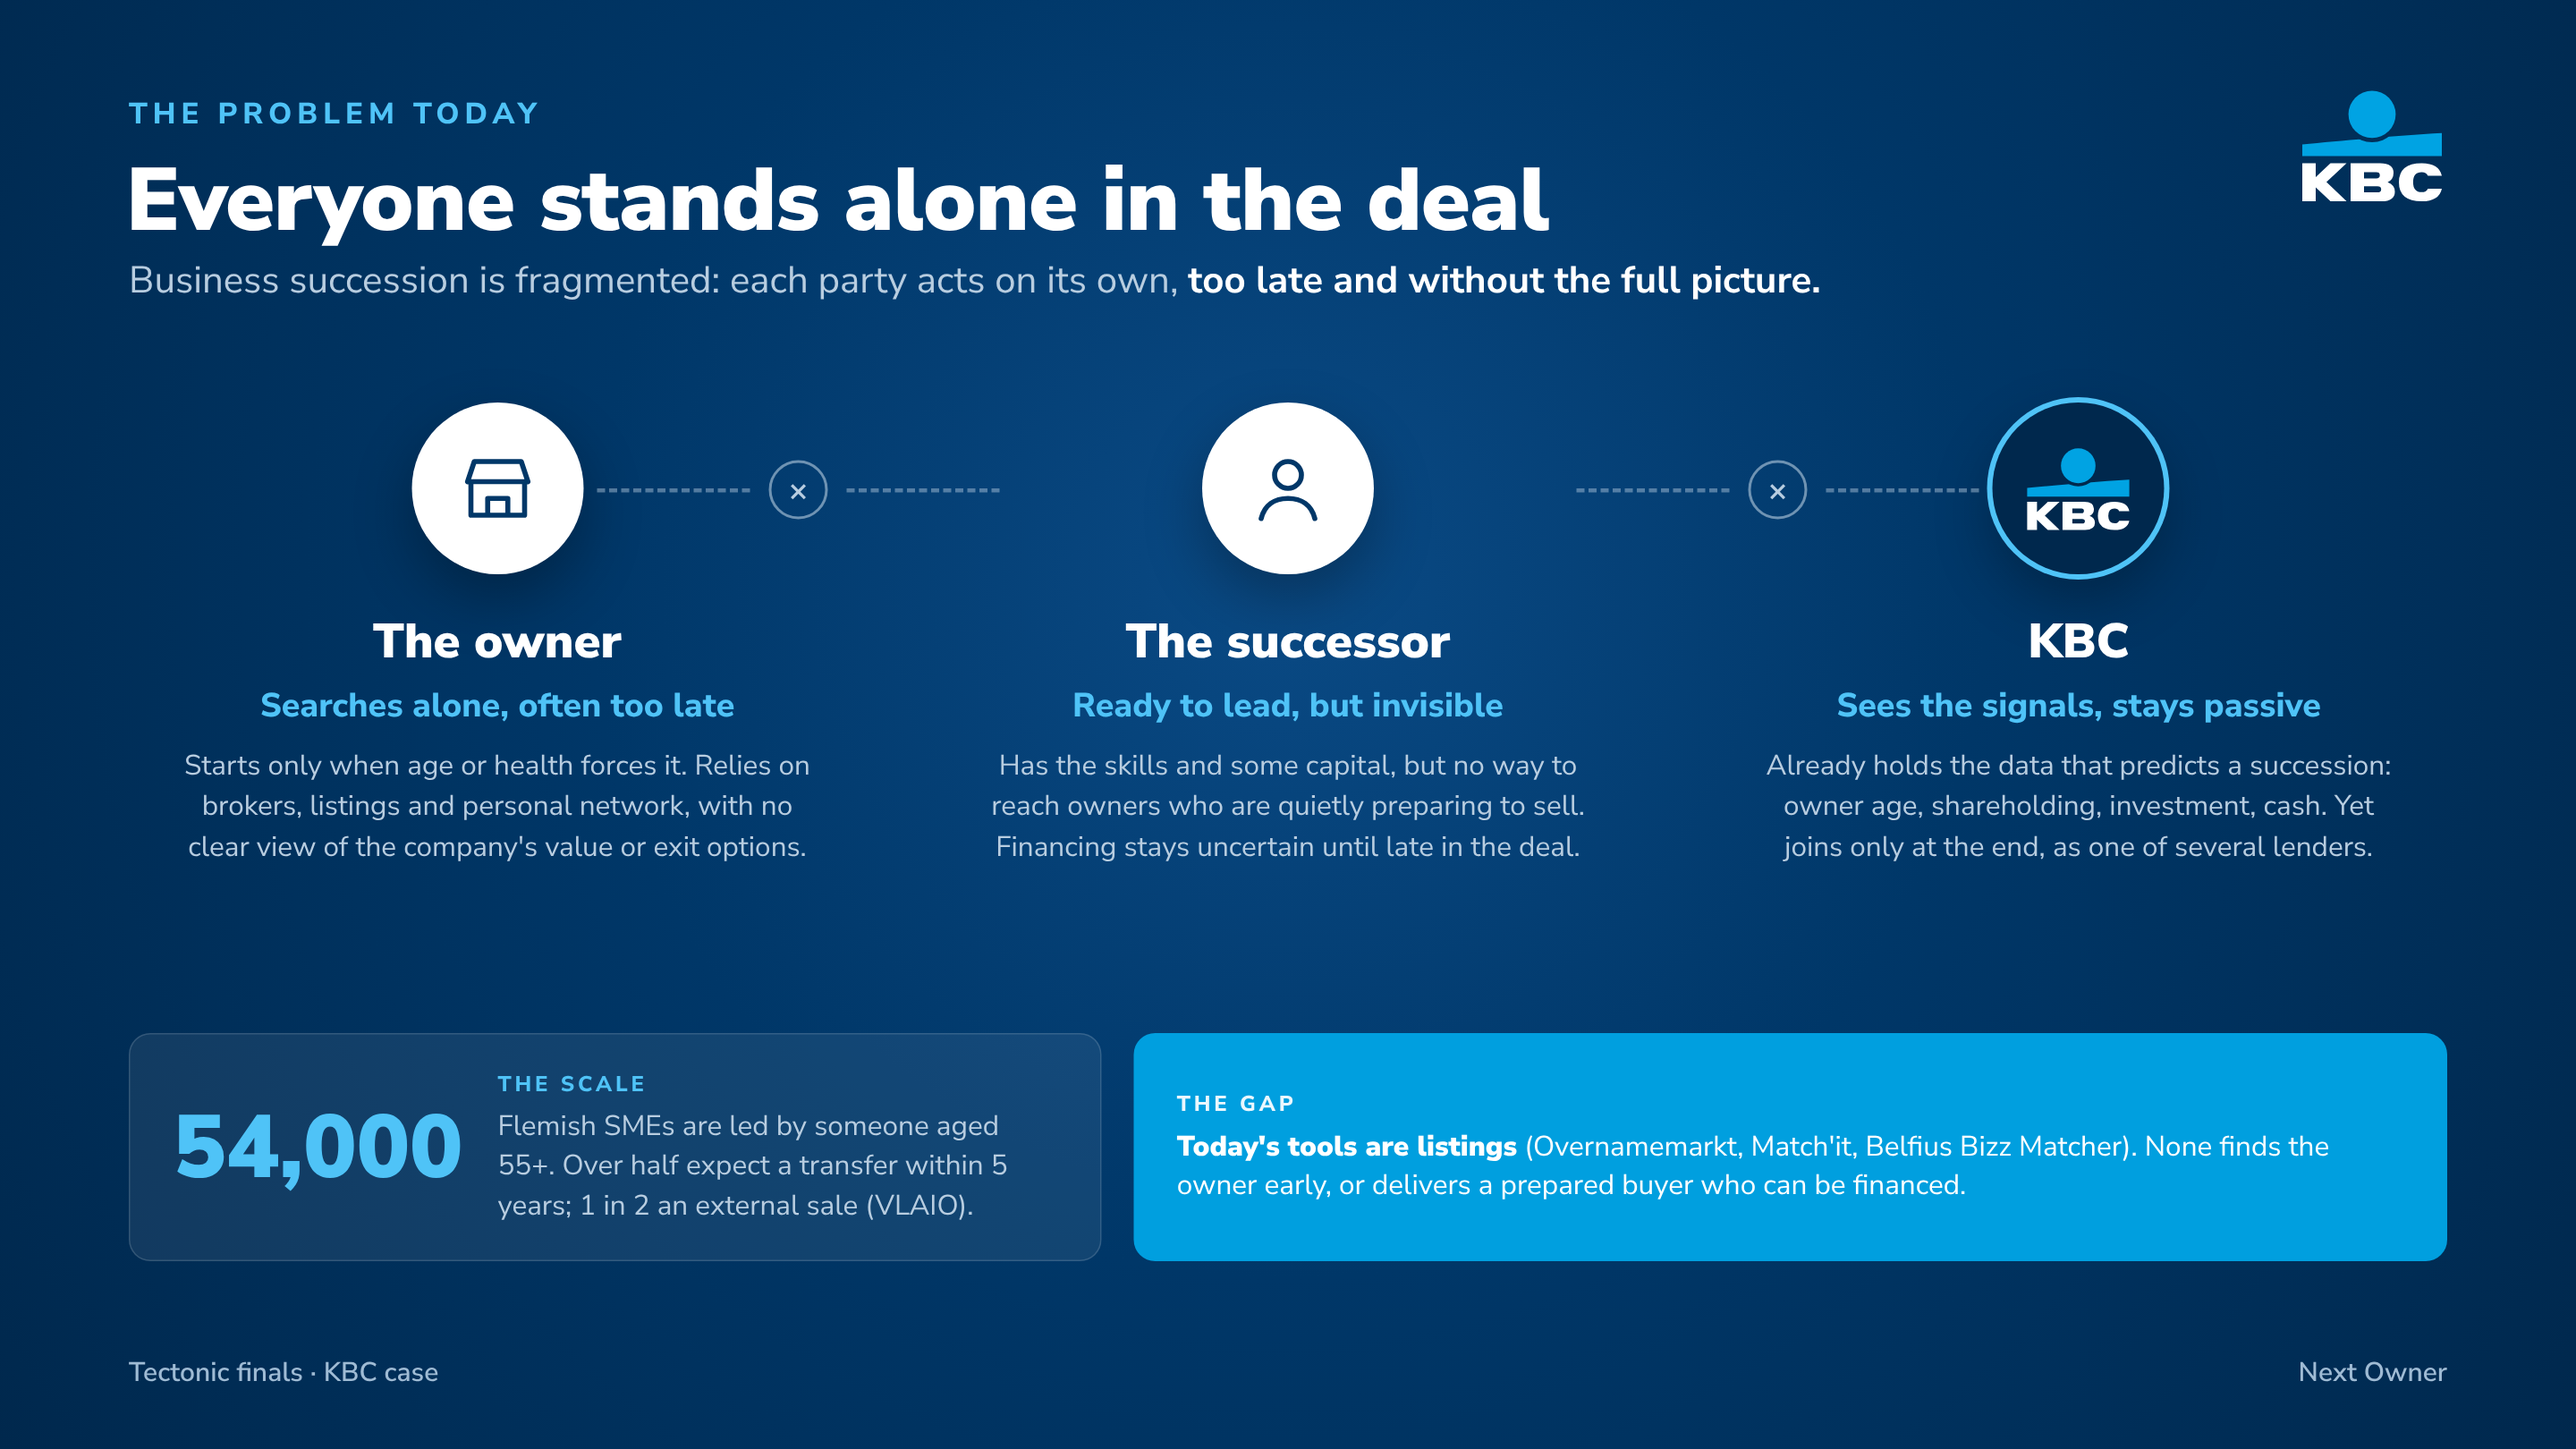
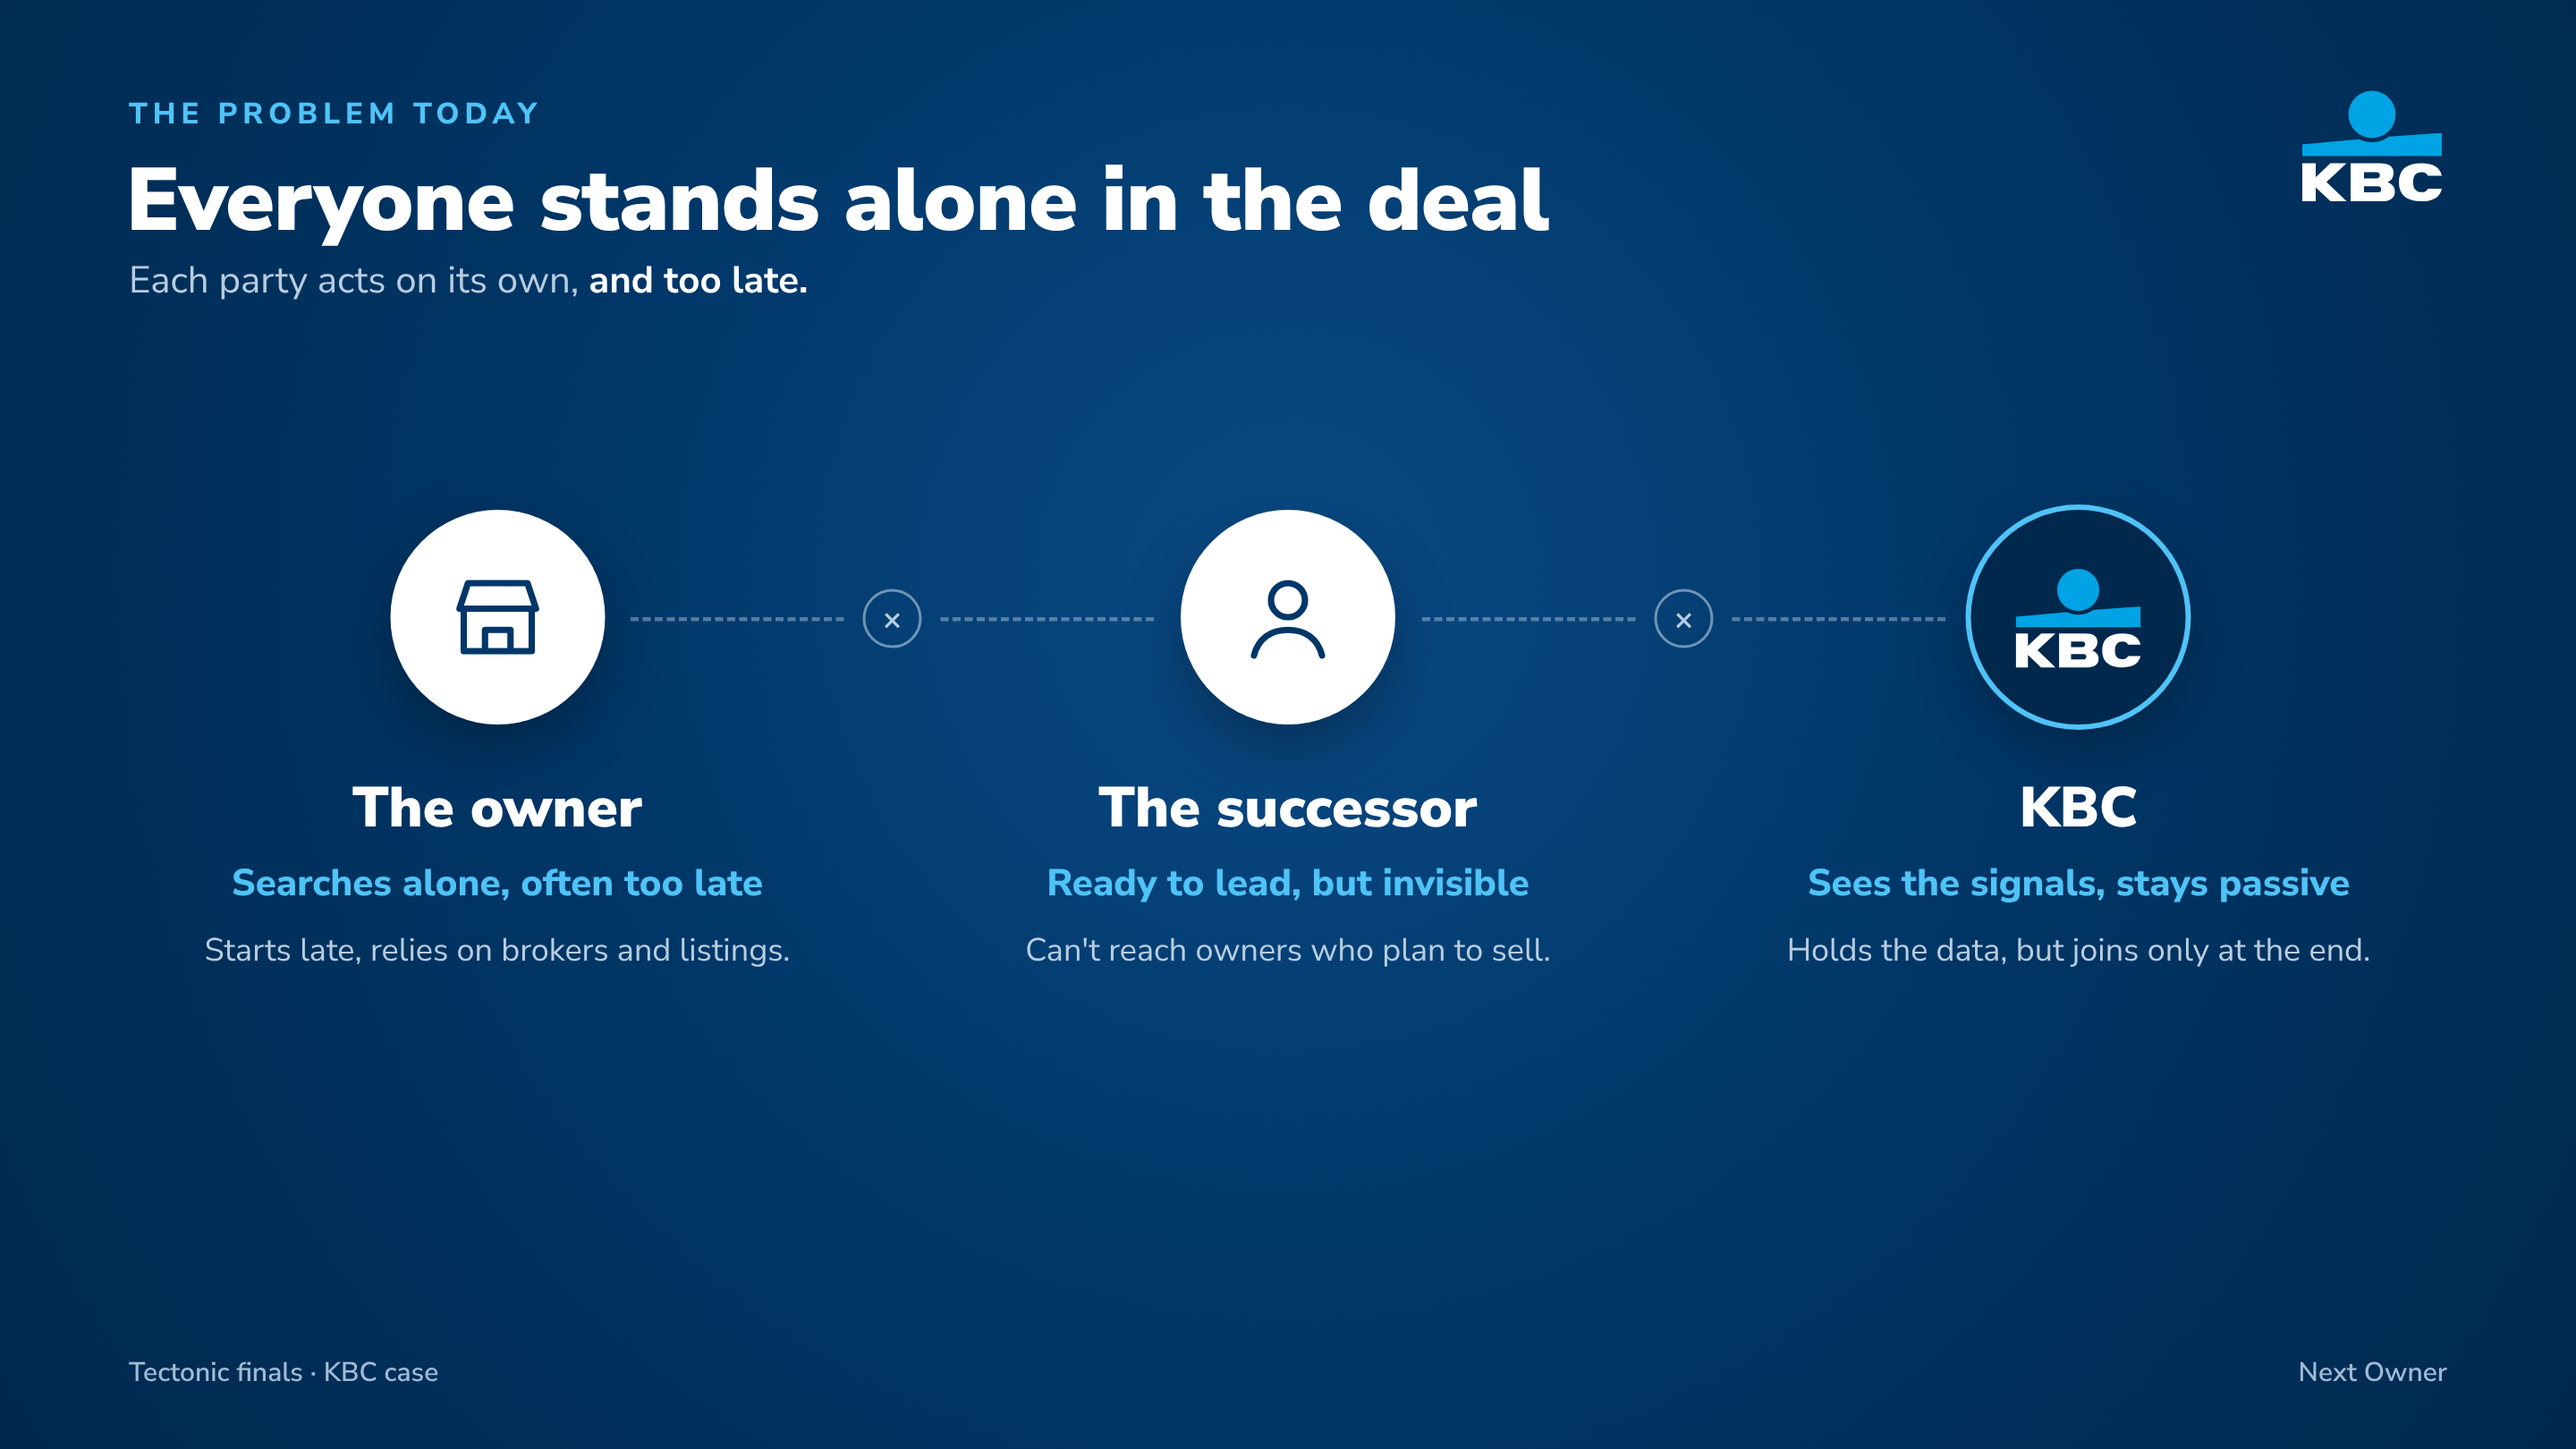
Simplify problem slide; add navy title slide with shop illustration
Claude-Session: https://claude.ai/code/session_019pKDhs8WJ9ksLK9yFgr7c1

diff --git a/slides/problem_alone.html b/slides/problem_alone.html
@@ -14,41 +14,31 @@ h1{position:absolute;left:94px;top:104px;font-size:66px;font-weight:900;letter-s
 .sub b{color:#fff}
 
 /* Three actors, not connected */
-.actors{position:absolute;left:96px;right:96px;top:300px;display:grid;grid-template-columns:repeat(3,1fr);gap:40px}
+.actors{position:absolute;left:96px;right:96px;top:380px;display:grid;grid-template-columns:repeat(3,1fr);gap:40px}
 .actor{text-align:center;padding:0 20px}
-.ic{width:128px;height:128px;border-radius:50%;margin:0 auto 26px;display:grid;place-items:center;
+.ic{width:160px;height:160px;border-radius:50%;margin:0 auto 34px;display:grid;place-items:center;
   background:#fff;color:var(--navy);box-shadow:0 18px 44px rgba(0,0,0,.3)}
-.ic svg{width:60px;height:60px;stroke:currentColor;fill:none;stroke-width:1.5;stroke-linecap:round;stroke-linejoin:round}
-.ic img{width:82px}
+.ic svg{width:76px;height:76px;stroke:currentColor;fill:none;stroke-width:1.5;stroke-linecap:round;stroke-linejoin:round}
+.ic img{width:100px}
 .actor.kbc .ic{background:var(--navy-2);box-shadow:0 0 0 4px var(--blue-2),0 18px 44px rgba(0,0,0,.3)}
-.actor b{display:block;font-size:36px;font-weight:900}
-.actor .tag{display:block;font-size:25px;font-weight:800;color:var(--blue-2);margin:6px 0 12px}
-.actor p{font-size:21px;line-height:1.45;color:var(--muted);max-width:470px;margin:0 auto}
+.actor b{display:block;font-size:42px;font-weight:900}
+.actor .tag{display:block;font-size:28px;font-weight:800;color:var(--blue-2);margin:8px 0 14px}
+.actor p{font-size:24px;line-height:1.45;color:var(--muted);max-width:560px;margin:0 auto}
 
 /* Broken links between the actors */
-.gap{position:absolute;top:364px;width:300px;height:2px;display:flex;align-items:center;justify-content:center}
+.gap{position:absolute;top:460px;width:390px;height:2px;display:flex;align-items:center;justify-content:center}
 .gap::before,.gap::after{content:"";flex:1;border-top:3px dashed rgba(184,205,224,.45)}
 .gap span{width:44px;height:44px;margin:0 14px;border-radius:50%;border:2px solid rgba(184,205,224,.6);color:var(--muted);
   display:grid;place-items:center;font-size:24px;font-weight:700;line-height:1}
-.g1{left:445px}.g2{left:1175px}
+.g1{left:470px}.g2{left:1060px}
 
-/* Evidence */
-.bottom{position:absolute;left:96px;right:96px;top:770px;display:grid;grid-template-columns:1fr 1.35fr;gap:24px}
-.box{border-radius:16px;padding:26px 32px;display:flex;gap:26px;align-items:center}
-.box small{display:block;font-size:16px;font-weight:800;letter-spacing:.16em;margin-bottom:6px}
-.box p{font-size:21px;line-height:1.4}
-.scale{background:rgba(255,255,255,.07);border:1px solid rgba(255,255,255,.14)}
-.scale .num{font-size:66px;font-weight:900;color:var(--blue-2);line-height:1;flex:none}
-.scale small{color:var(--blue-2)}.scale p{color:var(--muted)}
-.gapbox{background:var(--blue)}
-.gapbox small{color:#eaf7fe}.gapbox p{color:#fff}.gapbox p b{font-weight:900}
 
 .foot{position:absolute;left:96px;right:96px;bottom:44px;display:flex;justify-content:space-between;font-size:20px;color:#9fbbd4;font-weight:600}
 </style></head><body>
 
 <div class="kicker">THE PROBLEM TODAY</div>
 <h1>Everyone stands alone in the deal</h1>
-<div class="sub">Business succession is fragmented: each party acts on its own, <b>too late and without the full picture.</b></div>
+<div class="sub">Each party acts on its own, <b>and too late.</b></div>
 <img class="logo" src="kbc-logo-white.svg" alt="KBC">
 
 <div class="actors">
@@ -56,33 +46,24 @@ h1{position:absolute;left:94px;top:104px;font-size:66px;font-weight:900;letter-s
     <div class="ic"><svg viewBox="0 0 24 24"><path d="M3 10l2-6h14l2 6M4 10v10h16V10M3 10h18M9 20v-5h6v5"/></svg></div>
     <b>The owner</b>
     <span class="tag">Searches alone, often too late</span>
-    <p>Starts only when age or health forces it. Relies on brokers, listings and personal network, with no clear view of the company's value or exit options.</p>
+    <p>Starts late, relies on brokers and listings.</p>
   </div>
   <div class="actor">
     <div class="ic"><svg viewBox="0 0 24 24"><circle cx="12" cy="8" r="4"/><path d="M4 21c1-4 4-6 8-6s7 2 8 6"/></svg></div>
     <b>The successor</b>
     <span class="tag">Ready to lead, but invisible</span>
-    <p>Has the skills and some capital, but no way to reach owners who are quietly preparing to sell. Financing stays uncertain until late in the deal.</p>
+    <p>Can't reach owners who plan to sell.</p>
   </div>
   <div class="actor kbc">
     <div class="ic"><img src="kbc-logo-white.svg" alt="KBC"></div>
     <b>KBC</b>
     <span class="tag">Sees the signals, stays passive</span>
-    <p>Already holds the data that predicts a succession: owner age, shareholding, investment, cash. Yet joins only at the end, as one of several lenders.</p>
+    <p>Holds the data, but joins only at the end.</p>
   </div>
 </div>
 <div class="gap g1"><span>×</span></div>
 <div class="gap g2"><span>×</span></div>
 
-<div class="bottom">
-  <div class="box scale">
-    <div class="num">54,000</div>
-    <div><small>THE SCALE</small><p>Flemish SMEs are led by someone aged 55+. Over half expect a transfer within 5 years; 1 in 2 an external sale (VLAIO).</p></div>
-  </div>
-  <div class="box gapbox">
-    <div><small>THE GAP</small><p><b>Today's tools are listings</b> (Overnamemarkt, Match'it, Belfius Bizz Matcher). None finds the owner early, or delivers a prepared buyer who can be financed.</p></div>
-  </div>
-</div>
 
 <div class="foot"><span>Tectonic finals · KBC case</span><span>Next Owner</span></div>
 </body></html>

diff --git a/slides/title.html b/slides/title.html
@@ -1,0 +1,76 @@
+<!doctype html><html><head><meta charset="utf-8">
+<link href="https://fonts.googleapis.com/css2?family=Nunito+Sans:wght@400;600;700;800;900&display=swap" rel="stylesheet">
+<style>
+/* Title slide, 1920x1080, navy section style. */
+*{box-sizing:border-box;margin:0;padding:0}
+:root{--navy:#003768;--navy-2:#00284d;--blue:#009fdf;--blue-2:#4fc3f7;--muted:#b8cde0}
+body{width:1920px;height:1080px;color:#fff;font-family:"Nunito Sans",Inter,"DejaVu Sans",sans-serif;position:relative;overflow:hidden;
+  background:radial-gradient(circle at 74% 52%,#0b4d8a 0%,var(--navy) 40%,var(--navy-2) 100%)}
+
+.logo{position:absolute;left:120px;top:84px;width:120px}
+.text{position:absolute;left:120px;top:50%;transform:translateY(-46%);width:900px}
+.kicker{font-size:26px;font-weight:800;letter-spacing:.18em;color:var(--blue-2)}
+h1{font-size:150px;font-weight:900;line-height:.98;letter-spacing:-.02em;margin-top:16px}
+h1 span{color:var(--blue-2)}
+.rule{width:150px;height:10px;border-radius:5px;background:var(--blue);margin:40px 0 34px}
+.claim{font-size:46px;font-weight:800;line-height:1.2}
+.sub{font-size:30px;color:var(--muted);margin-top:16px;line-height:1.35}
+.sub b{color:#fff}
+.foot{position:absolute;left:120px;right:120px;bottom:64px;display:flex;justify-content:space-between;font-size:22px;color:#9fbbd4;font-weight:600}
+
+svg.shop{position:absolute;right:120px;top:170px;width:680px;height:740px}
+</style></head><body>
+
+<img class="logo" src="kbc-logo-white.svg" alt="KBC">
+
+<div class="text">
+  <div class="kicker">KBC CASE · ENTREPRENEURSHIP</div>
+  <h1>KBC Next<br><span>Owner</span></h1>
+  <div class="rule"></div>
+  <div class="claim">Every healthy company<br>deserves a next owner.</div>
+  <div class="sub">KBC finds, prepares and finances them,<br><b>before the owner asks.</b></div>
+</div>
+
+<!-- A healthy shop with the shutter half down and a sign: who takes over? -->
+<svg class="shop" viewBox="0 0 680 740" fill="none">
+  <defs>
+    <linearGradient id="wall" x1="0" y1="0" x2="0" y2="1"><stop offset="0" stop-color="#f4f8fb"/><stop offset="1" stop-color="#dfe9f1"/></linearGradient>
+    <linearGradient id="glass" x1="0" y1="0" x2="1" y2="1"><stop offset="0" stop-color="#ffd98a"/><stop offset="1" stop-color="#f5b84a"/></linearGradient>
+    <linearGradient id="shutter" x1="0" y1="0" x2="0" y2="1"><stop offset="0" stop-color="#5d7c9c"/><stop offset="1" stop-color="#3e5f80"/></linearGradient>
+    <pattern id="stripes" x="40" width="100" height="20" patternUnits="userSpaceOnUse"><rect width="50" height="20" fill="#009fdf"/><rect x="50" width="50" height="20" fill="#e8f6fd"/></pattern>
+    <clipPath id="win"><rect x="110" y="250" width="460" height="400"/></clipPath>
+  </defs>
+  <!-- glow + ground -->
+  <ellipse cx="340" cy="712" rx="330" ry="22" fill="#000" opacity=".25"/>
+  <!-- building -->
+  <rect x="40" y="70" width="600" height="640" rx="10" fill="url(#wall)"/>
+  <rect x="40" y="70" width="600" height="58" rx="10" fill="#c9d8e5"/>
+  <text x="340" y="110" text-anchor="middle" font-family="Nunito Sans,sans-serif" font-size="28" font-weight="900" fill="#003768" letter-spacing="6">BAKKERIJ</text>
+  <!-- awning -->
+  <path d="M70 160 H610 L640 230 H40 Z" fill="url(#stripes)"/>
+  <path d="M40 230 Q61 252 82 230 Q103 252 124 230 Q145 252 166 230 Q187 252 208 230 Q229 252 250 230 Q271 252 292 230 Q313 252 334 230 Q355 252 376 230 Q397 252 418 230 Q439 252 460 230 Q481 252 502 230 Q523 252 544 230 Q565 252 586 230 Q607 252 628 230 L640 230" fill="url(#stripes)"/>
+  <!-- window: warm light inside, shutter half down -->
+  <rect x="110" y="250" width="460" height="400" rx="4" fill="url(#glass)"/>
+  <g clip-path="url(#win)">
+    <rect x="150" y="520" width="380" height="16" rx="3" fill="#c98a2c"/>
+    <circle cx="210" cy="500" r="26" fill="#e7a043"/><circle cx="290" cy="505" r="22" fill="#d9903a"/><circle cx="470" cy="500" r="26" fill="#e7a043"/>
+    <rect x="360" y="480" width="70" height="40" rx="18" fill="#d9903a"/>
+    <rect x="110" y="250" width="460" height="230" fill="url(#shutter)"/>
+    <g stroke="#2f4f70" stroke-width="3">
+      <line x1="110" y1="280" x2="570" y2="280"/><line x1="110" y1="310" x2="570" y2="310"/><line x1="110" y1="340" x2="570" y2="340"/>
+      <line x1="110" y1="370" x2="570" y2="370"/><line x1="110" y1="400" x2="570" y2="400"/><line x1="110" y1="430" x2="570" y2="430"/><line x1="110" y1="460" x2="570" y2="460"/>
+    </g>
+    <rect x="110" y="470" width="460" height="12" fill="#29486a"/>
+  </g>
+  <rect x="110" y="250" width="460" height="400" rx="4" stroke="#9fb4c7" stroke-width="10"/>
+  <rect x="40" y="650" width="600" height="60" fill="#c9d8e5"/>
+  <!-- hanging sign -->
+  <g stroke="#ffffff" stroke-width="3"><line x1="250" y1="236" x2="215" y2="392"/><line x1="430" y1="236" x2="465" y2="392"/></g>
+  <g transform="rotate(-3 340 430)">
+    <rect x="160" y="388" width="360" height="96" rx="14" fill="#ffffff" stroke="#009fdf" stroke-width="5"/>
+    <text x="340" y="448" text-anchor="middle" font-family="Nunito Sans,sans-serif" font-size="36" font-weight="900" fill="#003768">Who takes over?</text>
+  </g>
+</svg>
+
+<div class="foot"><span>KBC Next Owner · [Team name] · Tectonic finals, 20 October 2026</span><span>Next Owner</span></div>
+</body></html>
